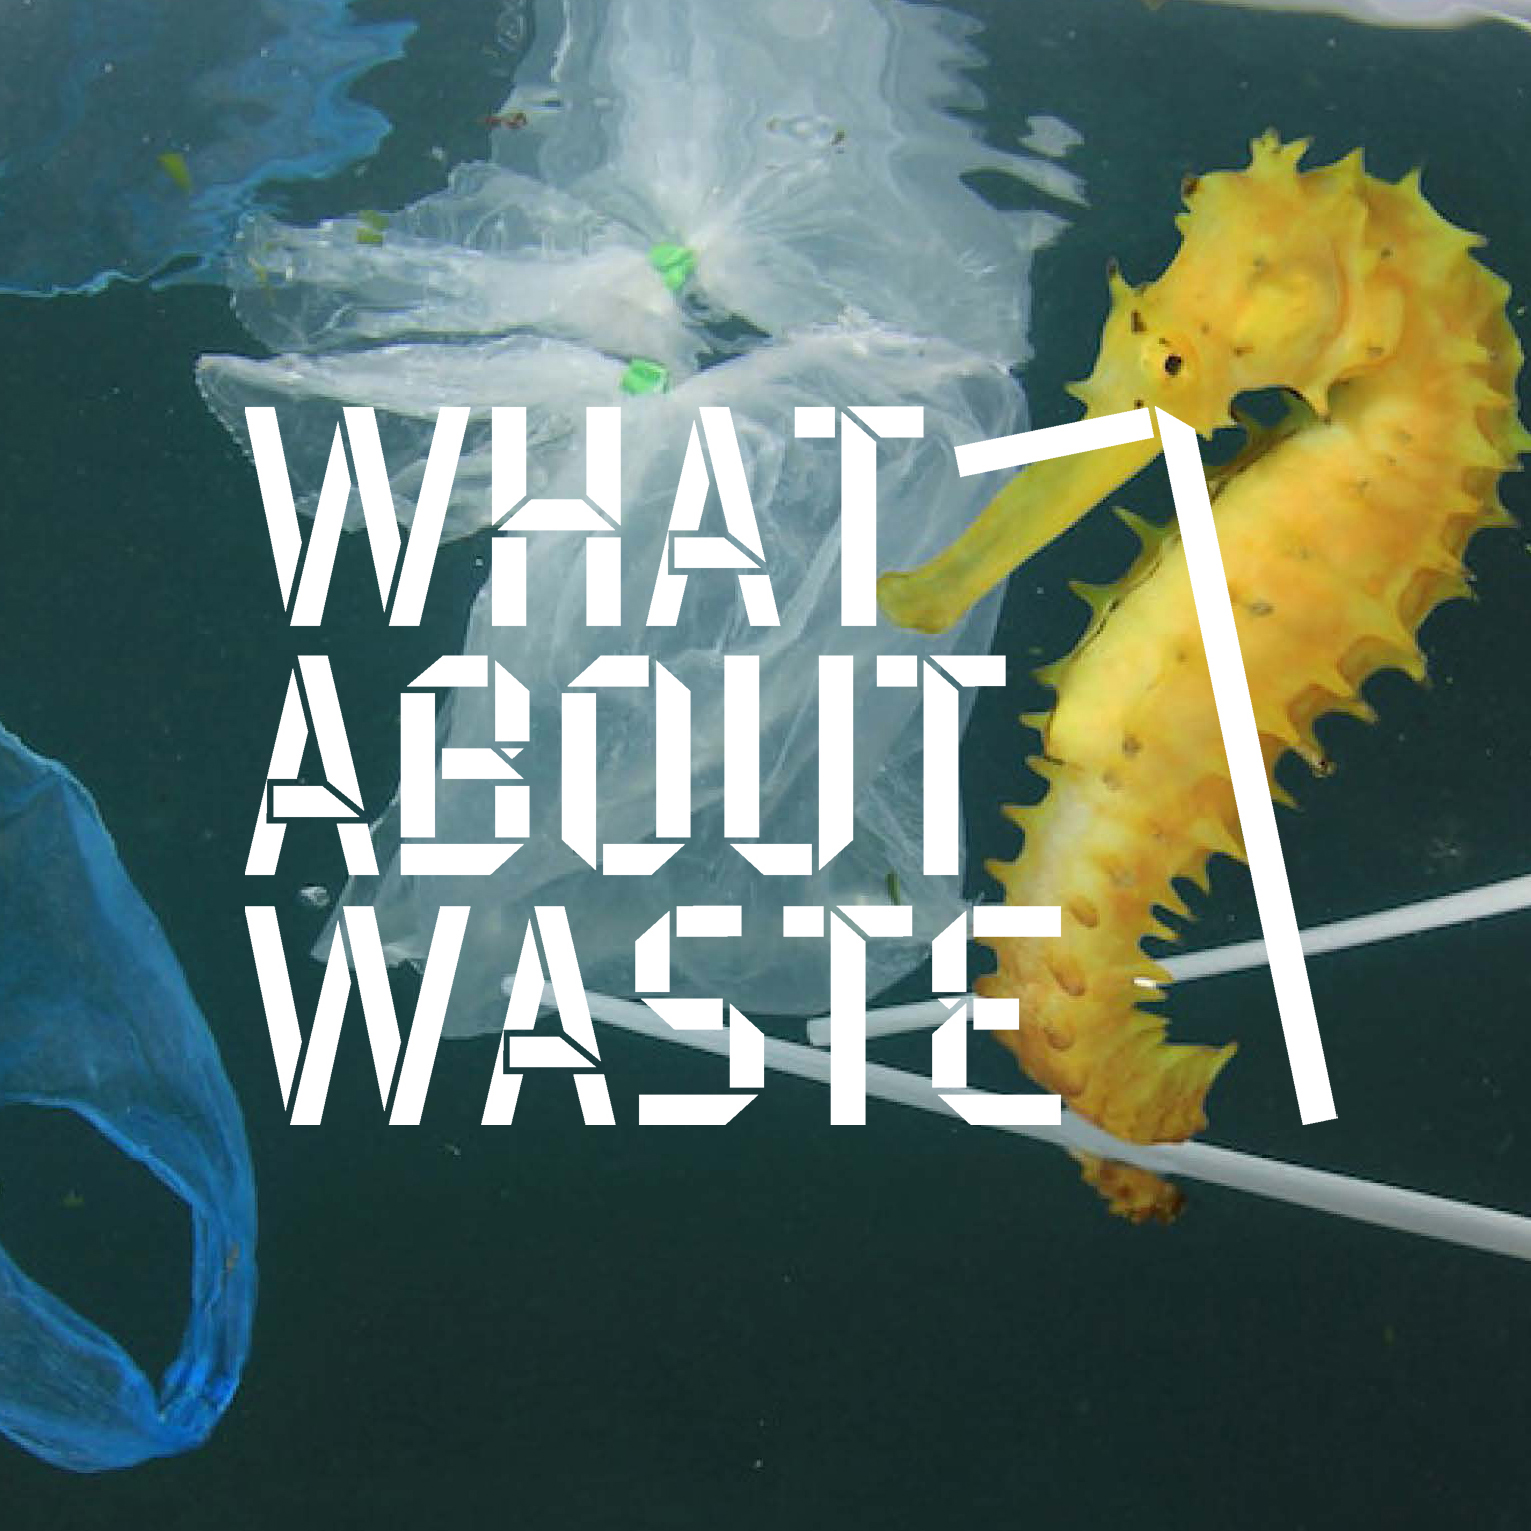
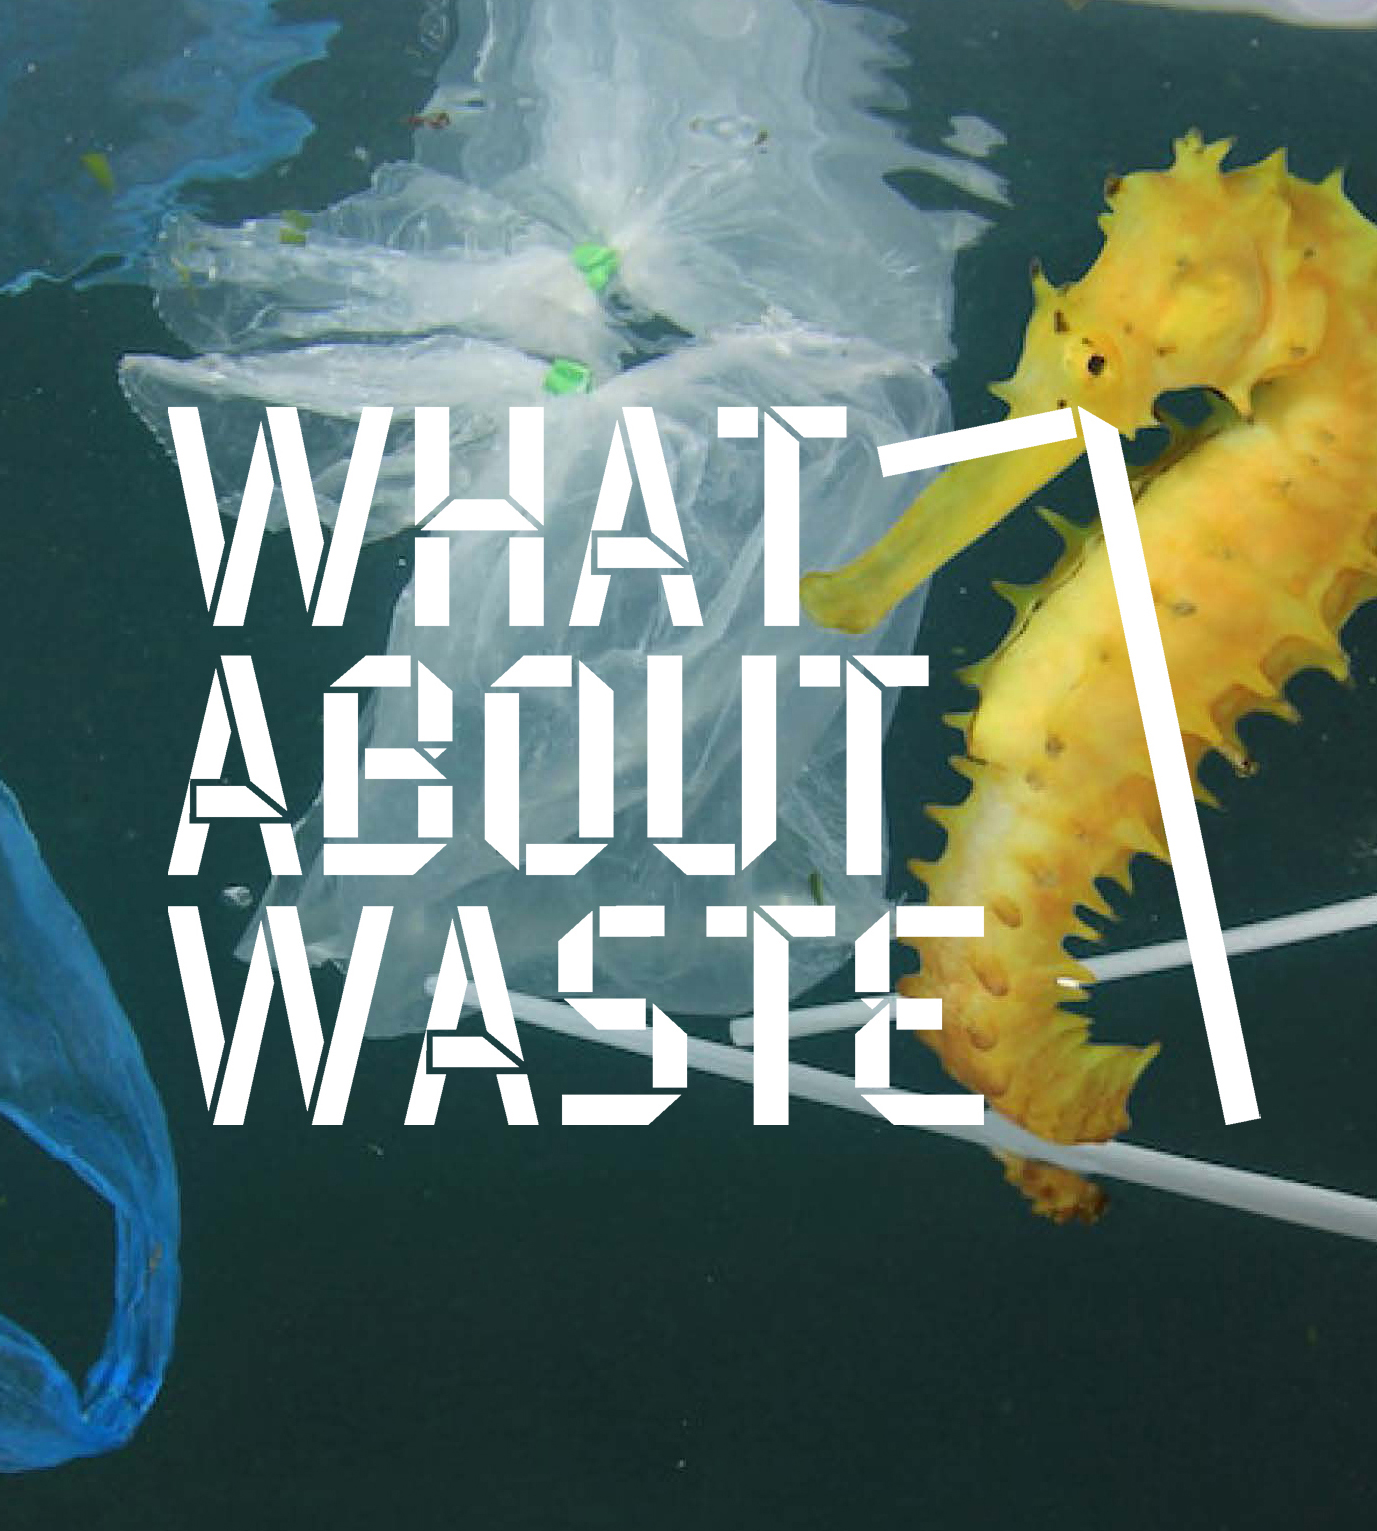
text size and img update

diff --git a/areyouseries.html b/areyouseries.html
@@ -60,7 +60,7 @@
 					<img src="img/02_areyouseries/img03.jpg">
 			</div>
 			<div class="phonewide">
-					<img src="img/02_areyouseries/img03.jpg">
+					<img src="img/02_areyouseries/img03p.jpg">
 			</div>
 
 			<!--IMG04-->

diff --git a/css/style.css b/css/style.css
@@ -715,8 +715,8 @@ footer {
 /*FONT*/
 
 h1, .introparagraph {
-	font-size: 1.7em;
-	line-height: 1.2em;
+	font-size: 1.5em;
+	line-height: 1em;
 }
 
 /*FOOTNOTES*/
